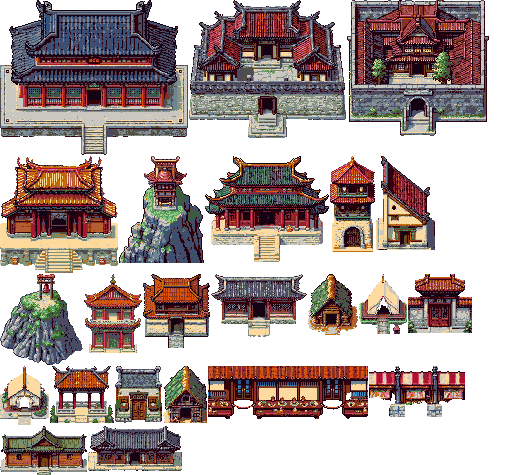
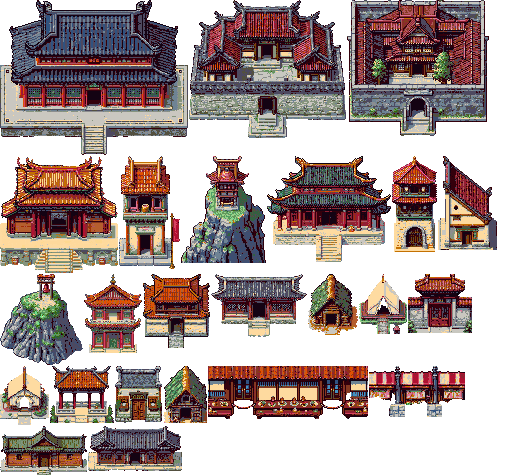
Jade: the market tower (市楼) for Chang'an, generated in Jade's colours (samples a107ece, try 2: the drum in the open upper storey, a red flag beside it); kit json and tk-world cache bumps
Claude-Session: https://claude.ai/code/session_01CG7crrkzqt1vmaeQ7L7w6w

Changed region(s): [[0.2188, 0.3242, 0.9688, 0.56]]

diff --git a/tk-world.js b/tk-world.js
@@ -252,7 +252,7 @@ function worldScenes() {
       this.opts = this.game.worldOpts;
       const { w, kit } = this.opts;
       this.load.json("region", `data/tk_maps/w${w.n}/region.json?v=64`);
-      this.load.json("kit", `assets/tk/kits/${kit}.json?v=38`);
+      this.load.json("kit", `assets/tk/kits/${kit}.json?v=39`);
       this.load.json("cutscenes", `data/tk_maps/w${w.n}/cutscenes.json?v=64`);
     }
     create() {

diff --git a/index.html b/index.html
@@ -27,7 +27,7 @@
 <script src="tk.js?v=106"></script>
 <script src="tk-town.js?v=30"></script>
 <script src="tk-iso.js?v=11"></script>
-<script src="tk-world.js?v=188"></script>
+<script src="tk-world.js?v=189"></script>
 <script src="tk-items.js?v=7"></script>
 <script src="tk-cutscene.js?v=58"></script>
 <script src="tk-music.js?v=4"></script>

diff --git a/tools/build_b2_buildings.py b/tools/build_b2_buildings.py
@@ -22,6 +22,8 @@ PICKS = {
     # code instead, tools/draw_b2_extras.py); wing_side-1 is a front view
     "building.compound": [1, 2], "building.wing_side": [2], "landmark.heights": [1, 2],
     "building.hut": [1, 2], "building.tent_small": [1, 2],
+    # the third (--set jade-b2c): try 2 shows the drum in the upper storey
+    "building.markettower": [2],
 }
 
 
